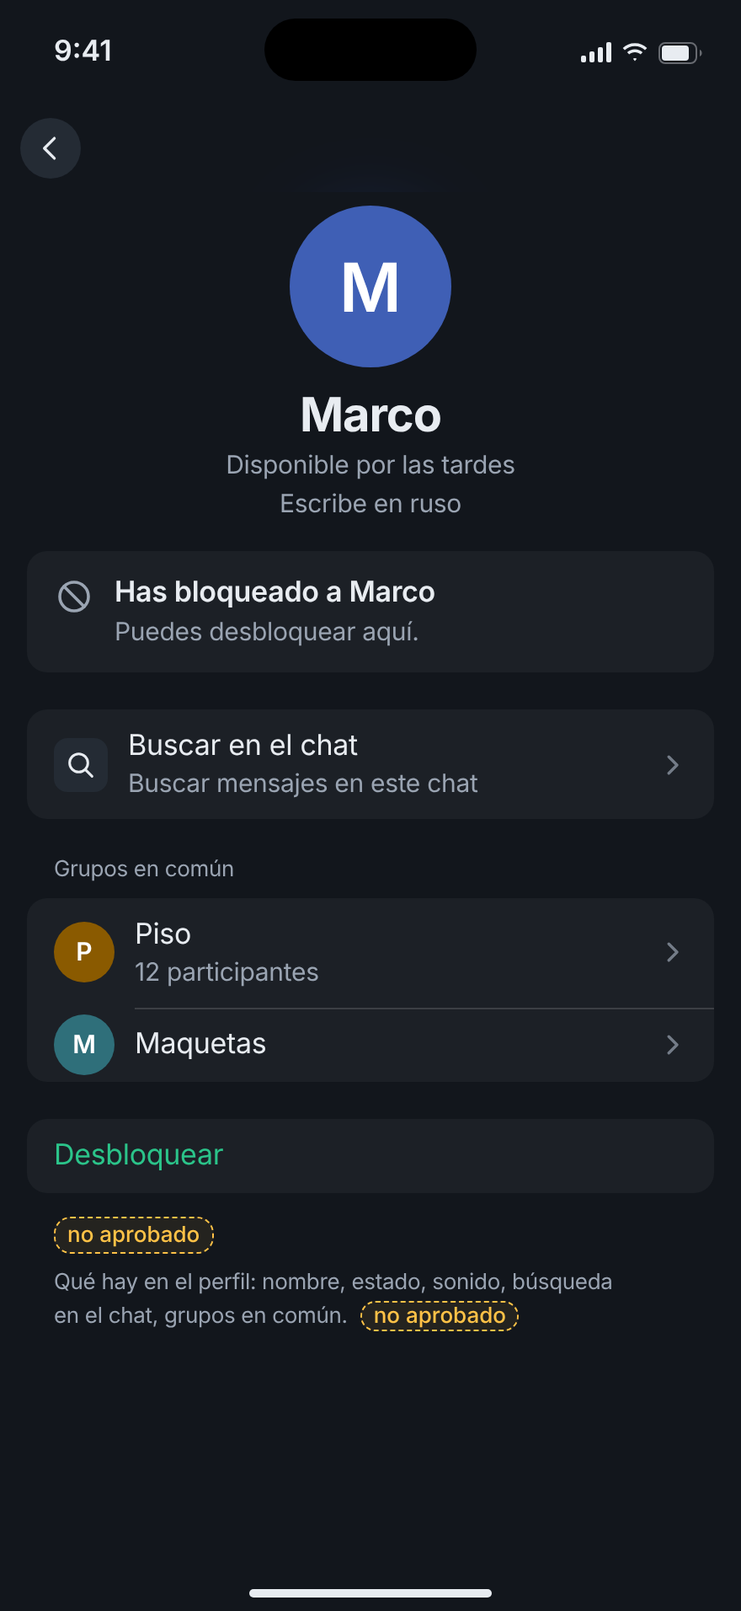
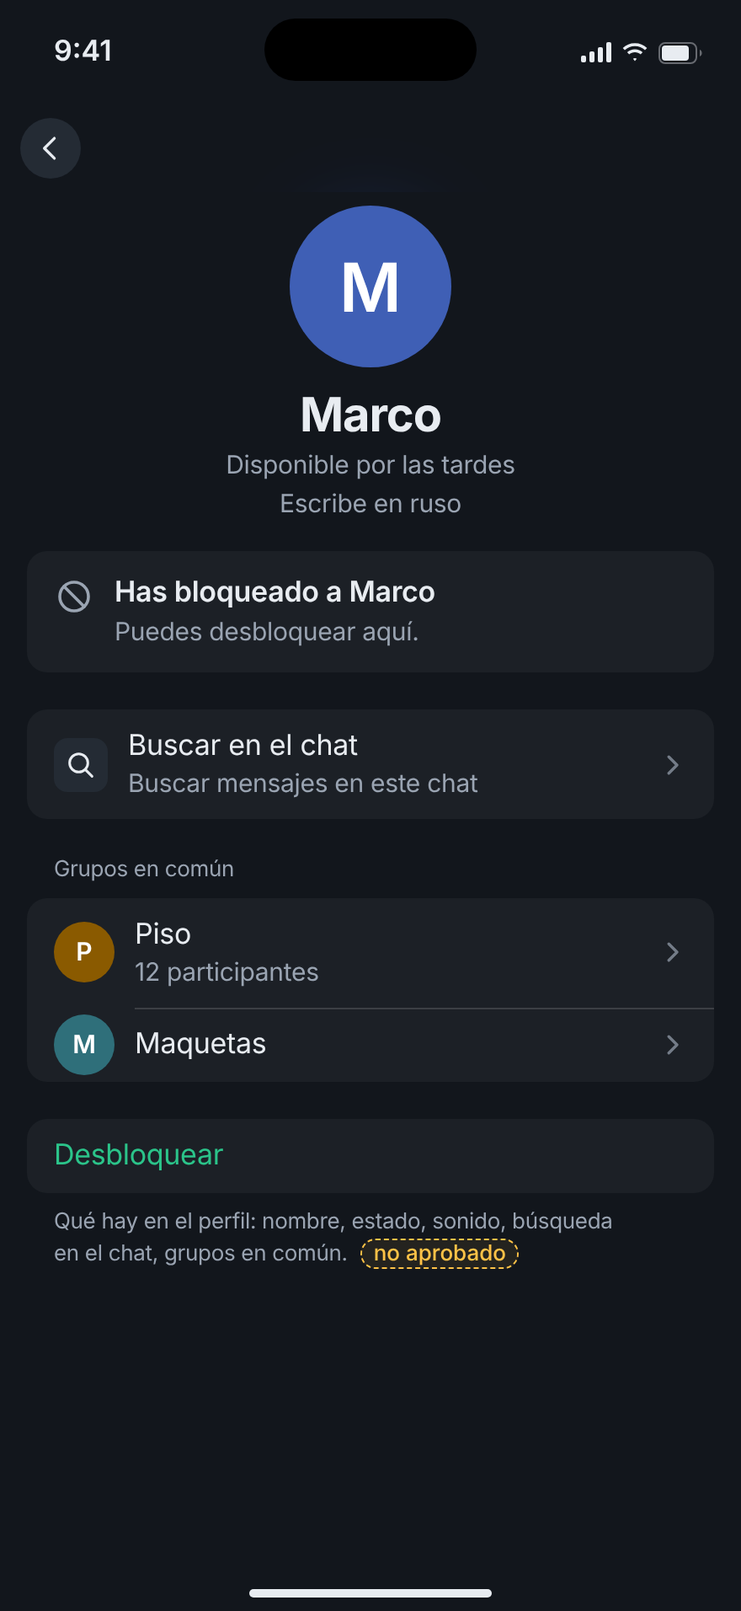
Контакты: сняты плашки с утверждённых №30, 33, 37, 39 (кнопка «Разблокировать», лист «Изменить контакт») (#94)
У лимита заметки (№35) и у №6, 9, 13 плашки остаются. tbd-texts.md: 65 мест (Мурат 44, юрист 21).

Claude-Session: https://claude.ai/code/session_01XzoWkW25V1nW2Qv4cEPq3n

Changed region(s): [[0.0614, 0.7406, 0.8284, 0.8332]]

diff --git a/redesign-ios/contacts-calls/contact-blocked.html b/redesign-ios/contacts-calls/contact-blocked.html
@@ -14,7 +14,7 @@ h.dataset.theme='dark';var l=q.get('l');h.lang=(l==='es'||l==='en')?l:'ru'})()</
 <div class="banner" role="status"><svg class="ic " viewBox="0 0 24 24" aria-hidden="true"><circle cx="12" cy="12" r="8.5"/><path d="M6 6l12 12"/></svg><div><h3>Контакт Marco заблокирован</h3><p>Снять блокировку можно здесь.</p></div></div>
 <ul class="ig"><li class="ir with-ic"><span class="ii"><svg class="ic " viewBox="0 0 24 24" aria-hidden="true"><circle cx="10.5" cy="10.5" r="6.5"/><path d="M20 20l-4.8-4.8"/></svg></span><div class="tx"><b>Поиск в чате</b><small>Искать сообщения в этом чате</small></div><svg class="ic chev" viewBox="0 0 24 24" aria-hidden="true"><path d="M9.5 5.5L16 12l-6.5 6.5"/></svg></li></ul><p class="igh">Общие группы</p><ul class="ig">
 <li class="ir with-av"><span class="ii av av36" style="background:var(--av-1)">К</span><div class="tx"><b>Квартира</b><small>12 участников</small></div><svg class="ic chev" viewBox="0 0 24 24" aria-hidden="true"><path d="M9.5 5.5L16 12l-6.5 6.5"/></svg></li>
-<li class="ir with-av"><span class="ii av av36" style="background:var(--av-5)">М</span><div class="tx"><b>Макеты</b></div><svg class="ic chev" viewBox="0 0 24 24" aria-hidden="true"><path d="M9.5 5.5L16 12l-6.5 6.5"/></svg></li></ul><ul class="ig"><li class="ir accent"><div class="tx"><b>Разблокировать</b></div></li></ul><p class="igf"><span class="tbd blk">не утверждено</span></p><p class="igf">Что есть в профиле: имя, статус, звук, поиск в чате, общие группы. <span class="tbd">не утверждено</span></p></div></div><header class="nav clear"><div class="bar"><span class="cbtn" aria-label="Назад"><svg class="ic " viewBox="0 0 24 24" aria-hidden="true"><path d="M14.5 5.5L8 12l6.5 6.5"/></svg></span><span></span></div></header>
+<li class="ir with-av"><span class="ii av av36" style="background:var(--av-5)">М</span><div class="tx"><b>Макеты</b></div><svg class="ic chev" viewBox="0 0 24 24" aria-hidden="true"><path d="M9.5 5.5L16 12l-6.5 6.5"/></svg></li></ul><ul class="ig"><li class="ir accent"><div class="tx"><b>Разблокировать</b></div></li></ul><p class="igf">Что есть в профиле: имя, статус, звук, поиск в чате, общие группы. <span class="tbd">не утверждено</span></p></div></div><header class="nav clear"><div class="bar"><span class="cbtn" aria-label="Назад"><svg class="ic " viewBox="0 0 24 24" aria-hidden="true"><path d="M14.5 5.5L8 12l6.5 6.5"/></svg></span><span></span></div></header>
 <i class="home-ind"></i></template>
 <template data-l="es" lang="es"><div class="sb"><span>9:41</span><i class="island"></i><span class="ri">
 <svg width="18" height="12" viewBox="0 0 18 12" fill="currentColor"><rect x="0" y="8" width="3" height="4" rx="1"/><rect x="5" y="5.5" width="3" height="6.5" rx="1"/><rect x="10" y="3" width="3" height="9" rx="1"/><rect x="15" y="0" width="3" height="12" rx="1"/></svg>
@@ -25,7 +25,7 @@ h.dataset.theme='dark';var l=q.get('l');h.lang=(l==='es'||l==='en')?l:'ru'})()</
 <div class="banner" role="status"><svg class="ic " viewBox="0 0 24 24" aria-hidden="true"><circle cx="12" cy="12" r="8.5"/><path d="M6 6l12 12"/></svg><div><h3>Has bloqueado a Marco</h3><p>Puedes desbloquear aquí.</p></div></div>
 <ul class="ig"><li class="ir with-ic"><span class="ii"><svg class="ic " viewBox="0 0 24 24" aria-hidden="true"><circle cx="10.5" cy="10.5" r="6.5"/><path d="M20 20l-4.8-4.8"/></svg></span><div class="tx"><b>Buscar en el chat</b><small>Buscar mensajes en este chat</small></div><svg class="ic chev" viewBox="0 0 24 24" aria-hidden="true"><path d="M9.5 5.5L16 12l-6.5 6.5"/></svg></li></ul><p class="igh">Grupos en común</p><ul class="ig">
 <li class="ir with-av"><span class="ii av av36" style="background:var(--av-1)">P</span><div class="tx"><b>Piso</b><small>12 participantes</small></div><svg class="ic chev" viewBox="0 0 24 24" aria-hidden="true"><path d="M9.5 5.5L16 12l-6.5 6.5"/></svg></li>
-<li class="ir with-av"><span class="ii av av36" style="background:var(--av-5)">M</span><div class="tx"><b>Maquetas</b></div><svg class="ic chev" viewBox="0 0 24 24" aria-hidden="true"><path d="M9.5 5.5L16 12l-6.5 6.5"/></svg></li></ul><ul class="ig"><li class="ir accent"><div class="tx"><b>Desbloquear</b></div></li></ul><p class="igf"><span class="tbd blk">no aprobado</span></p><p class="igf">Qué hay en el perfil: nombre, estado, sonido, búsqueda en el chat, grupos en común. <span class="tbd">no aprobado</span></p></div></div><header class="nav clear"><div class="bar"><span class="cbtn" aria-label="Atrás"><svg class="ic " viewBox="0 0 24 24" aria-hidden="true"><path d="M14.5 5.5L8 12l6.5 6.5"/></svg></span><span></span></div></header>
+<li class="ir with-av"><span class="ii av av36" style="background:var(--av-5)">M</span><div class="tx"><b>Maquetas</b></div><svg class="ic chev" viewBox="0 0 24 24" aria-hidden="true"><path d="M9.5 5.5L16 12l-6.5 6.5"/></svg></li></ul><ul class="ig"><li class="ir accent"><div class="tx"><b>Desbloquear</b></div></li></ul><p class="igf">Qué hay en el perfil: nombre, estado, sonido, búsqueda en el chat, grupos en común. <span class="tbd">no aprobado</span></p></div></div><header class="nav clear"><div class="bar"><span class="cbtn" aria-label="Atrás"><svg class="ic " viewBox="0 0 24 24" aria-hidden="true"><path d="M14.5 5.5L8 12l6.5 6.5"/></svg></span><span></span></div></header>
 <i class="home-ind"></i></template>
 <template data-l="en" lang="en"><div class="sb"><span>9:41</span><i class="island"></i><span class="ri">
 <svg width="18" height="12" viewBox="0 0 18 12" fill="currentColor"><rect x="0" y="8" width="3" height="4" rx="1"/><rect x="5" y="5.5" width="3" height="6.5" rx="1"/><rect x="10" y="3" width="3" height="9" rx="1"/><rect x="15" y="0" width="3" height="12" rx="1"/></svg>
@@ -36,7 +36,7 @@ h.dataset.theme='dark';var l=q.get('l');h.lang=(l==='es'||l==='en')?l:'ru'})()</
 <div class="banner" role="status"><svg class="ic " viewBox="0 0 24 24" aria-hidden="true"><circle cx="12" cy="12" r="8.5"/><path d="M6 6l12 12"/></svg><div><h3>Marco is blocked</h3><p>You can unblock here.</p></div></div>
 <ul class="ig"><li class="ir with-ic"><span class="ii"><svg class="ic " viewBox="0 0 24 24" aria-hidden="true"><circle cx="10.5" cy="10.5" r="6.5"/><path d="M20 20l-4.8-4.8"/></svg></span><div class="tx"><b>Search in chat</b><small>Find messages in this chat</small></div><svg class="ic chev" viewBox="0 0 24 24" aria-hidden="true"><path d="M9.5 5.5L16 12l-6.5 6.5"/></svg></li></ul><p class="igh">Groups in common</p><ul class="ig">
 <li class="ir with-av"><span class="ii av av36" style="background:var(--av-1)">F</span><div class="tx"><b>Flat</b><small>12 members</small></div><svg class="ic chev" viewBox="0 0 24 24" aria-hidden="true"><path d="M9.5 5.5L16 12l-6.5 6.5"/></svg></li>
-<li class="ir with-av"><span class="ii av av36" style="background:var(--av-5)">M</span><div class="tx"><b>Mockups</b></div><svg class="ic chev" viewBox="0 0 24 24" aria-hidden="true"><path d="M9.5 5.5L16 12l-6.5 6.5"/></svg></li></ul><ul class="ig"><li class="ir accent"><div class="tx"><b>Unblock</b></div></li></ul><p class="igf"><span class="tbd blk">not approved</span></p><p class="igf">What the profile has: name, status, sound, search in chat, shared groups. <span class="tbd">not approved</span></p></div></div><header class="nav clear"><div class="bar"><span class="cbtn" aria-label="Back"><svg class="ic " viewBox="0 0 24 24" aria-hidden="true"><path d="M14.5 5.5L8 12l6.5 6.5"/></svg></span><span></span></div></header>
+<li class="ir with-av"><span class="ii av av36" style="background:var(--av-5)">M</span><div class="tx"><b>Mockups</b></div><svg class="ic chev" viewBox="0 0 24 24" aria-hidden="true"><path d="M9.5 5.5L16 12l-6.5 6.5"/></svg></li></ul><ul class="ig"><li class="ir accent"><div class="tx"><b>Unblock</b></div></li></ul><p class="igf">What the profile has: name, status, sound, search in chat, shared groups. <span class="tbd">not approved</span></p></div></div><header class="nav clear"><div class="bar"><span class="cbtn" aria-label="Back"><svg class="ic " viewBox="0 0 24 24" aria-hidden="true"><path d="M14.5 5.5L8 12l6.5 6.5"/></svg></span><span></span></div></header>
 <i class="home-ind"></i></template>
 <script>// WordFit (как wordfit.js в корне репозитория): на AX5 слово, которое не влезает в строку, не рвётся —
 // сначала раскладка (в CSS: строки во всю ширину, значок над текстом), а если и так не влезло — кегль блока

diff --git a/redesign-ios/contacts-calls/contact-edit-filled.html b/redesign-ios/contacts-calls/contact-edit-filled.html
@@ -24,7 +24,7 @@ h.dataset.theme='dark';var l=q.get('l');h.lang=(l==='es'||l==='en')?l:'ru'})()</
 <ul class="ig"><li class="ir accent"><div class="tx"><b>Сбросить к имени из профиля</b></div></li></ul>
 <p class="igh">Заметка</p><ul class="ig"><li class="ir"><div class="notefield focus" style="display:flex;flex-direction:column;justify-content:flex-end"><div>Познакомились на языковом обмене в библиотеке на Майор. Созваниваемся по вторникам и четвергам в 19:00: полчаса говорим по‑испански, полчаса по‑русски. Просит исправлять ошибки сразу, а не в конце разговора. Любит футбол, горы и старое кино, не любит голосовые длиннее минуты. В марте планирует поездку в Москву — посоветовать музеи и где недорого поесть. Вернуть книгу «Сто лет одиночества». День рождения — 14 мая. Любимый кофе — кортадо, без сахара. Отвечать лучше вечером.<i class="caret"></i></div></div></li></ul>
 <div class="nfoot"><span>Собеседник её не видит</span><span class="cnt">476 / 500</span></div>
-<p class="small"><span class="tbd blk">формулировка: не утверждено</span></p></div></div>
+</div></div>
 <i class="home-ind"></i></template>
 <template data-l="es" lang="es"><div class="sb"><span>9:41</span><i class="island"></i><span class="ri">
 <svg width="18" height="12" viewBox="0 0 18 12" fill="currentColor"><rect x="0" y="8" width="3" height="4" rx="1"/><rect x="5" y="5.5" width="3" height="6.5" rx="1"/><rect x="10" y="3" width="3" height="9" rx="1"/><rect x="15" y="0" width="3" height="12" rx="1"/></svg>
@@ -45,7 +45,7 @@ h.dataset.theme='dark';var l=q.get('l');h.lang=(l==='es'||l==='en')?l:'ru'})()</
 <ul class="ig"><li class="ir accent"><div class="tx"><b>Restablecer el nombre del perfil</b></div></li></ul>
 <p class="igh">Nota</p><ul class="ig"><li class="ir"><div class="notefield focus" style="display:flex;flex-direction:column;justify-content:flex-end"><div>Nos conocimos en un intercambio de idiomas en la biblioteca de la calle Mayor. Hablamos los martes y jueves a las 19:00: media hora en ruso y media en español. Prefiere que le corrija los errores en el momento, no al final. Le gustan el fútbol, la montaña y el cine antiguo; no le gustan los audios de más de un minuto. En marzo viene a Madrid: recomendarle museos y sitios baratos para comer. Devolverle «Cien años de soledad». Cumpleaños: 14 de mayo. Café favorito: cortado, sin azúcar.<i class="caret"></i></div></div></li></ul>
 <div class="nfoot"><span>La otra persona no la ve</span><span class="cnt">488 / 500</span></div>
-<p class="small"><span class="tbd blk">redacción: no aprobada</span></p></div></div>
+</div></div>
 <i class="home-ind"></i></template>
 <template data-l="en" lang="en"><div class="sb"><span>9:41</span><i class="island"></i><span class="ri">
 <svg width="18" height="12" viewBox="0 0 18 12" fill="currentColor"><rect x="0" y="8" width="3" height="4" rx="1"/><rect x="5" y="5.5" width="3" height="6.5" rx="1"/><rect x="10" y="3" width="3" height="9" rx="1"/><rect x="15" y="0" width="3" height="12" rx="1"/></svg>
@@ -66,7 +66,7 @@ h.dataset.theme='dark';var l=q.get('l');h.lang=(l==='es'||l==='en')?l:'ru'})()</
 <ul class="ig"><li class="ir accent"><div class="tx"><b>Reset to profile name</b></div></li></ul>
 <p class="igh">Note</p><ul class="ig"><li class="ir"><div class="notefield focus" style="display:flex;flex-direction:column;justify-content:flex-end"><div>We met at a language exchange at the library on Mayor Street. We talk on Tuesdays and Thursdays at 19:00: half an hour in Spanish, half an hour in English. Prefers mistakes corrected right away, not at the end of the call. Into football, mountains and old films; not a fan of voice messages longer than a minute. Coming to London in March: suggest museums and cheap places to eat. Return “One Hundred Years of Solitude”. Birthday: 14 May. Favourite coffee: cortado, no sugar.<i class="caret"></i></div></div></li></ul>
 <div class="nfoot"><span>The other person can’t see it</span><span class="cnt">475 / 500</span></div>
-<p class="small"><span class="tbd blk">wording: not approved</span></p></div></div>
+</div></div>
 <i class="home-ind"></i></template>
 <script>// WordFit (как wordfit.js в корне репозитория): на AX5 слово, которое не влезает в строку, не рвётся —
 // сначала раскладка (в CSS: строки во всю ширину, значок над текстом), а если и так не влезло — кегль блока

diff --git a/redesign-ios/contacts-calls/contact-edit.html b/redesign-ios/contacts-calls/contact-edit.html
@@ -24,7 +24,7 @@ h.dataset.theme='dark';var l=q.get('l');h.lang=(l==='es'||l==='en')?l:'ru'})()</
 <ul class="ig"><li class="ir accent"><div class="tx"><b>Сбросить к имени из профиля</b></div></li></ul>
 <p class="igh">Заметка</p><ul class="ig"><li class="ir"><div class="notefield"><span class="ph">Например, где вы познакомились</span></div></li></ul>
 <div class="nfoot"><span>Собеседник её не видит</span></div>
-<p class="small"><span class="tbd blk">формулировка: не утверждено</span></p></div></div>
+</div></div>
 <i class="home-ind"></i></template>
 <template data-l="es" lang="es"><div class="sb"><span>9:41</span><i class="island"></i><span class="ri">
 <svg width="18" height="12" viewBox="0 0 18 12" fill="currentColor"><rect x="0" y="8" width="3" height="4" rx="1"/><rect x="5" y="5.5" width="3" height="6.5" rx="1"/><rect x="10" y="3" width="3" height="9" rx="1"/><rect x="15" y="0" width="3" height="12" rx="1"/></svg>
@@ -45,7 +45,7 @@ h.dataset.theme='dark';var l=q.get('l');h.lang=(l==='es'||l==='en')?l:'ru'})()</
 <ul class="ig"><li class="ir accent"><div class="tx"><b>Restablecer el nombre del perfil</b></div></li></ul>
 <p class="igh">Nota</p><ul class="ig"><li class="ir"><div class="notefield"><span class="ph">Por ejemplo, dónde os conocisteis</span></div></li></ul>
 <div class="nfoot"><span>La otra persona no la ve</span></div>
-<p class="small"><span class="tbd blk">redacción: no aprobada</span></p></div></div>
+</div></div>
 <i class="home-ind"></i></template>
 <template data-l="en" lang="en"><div class="sb"><span>9:41</span><i class="island"></i><span class="ri">
 <svg width="18" height="12" viewBox="0 0 18 12" fill="currentColor"><rect x="0" y="8" width="3" height="4" rx="1"/><rect x="5" y="5.5" width="3" height="6.5" rx="1"/><rect x="10" y="3" width="3" height="9" rx="1"/><rect x="15" y="0" width="3" height="12" rx="1"/></svg>
@@ -66,7 +66,7 @@ h.dataset.theme='dark';var l=q.get('l');h.lang=(l==='es'||l==='en')?l:'ru'})()</
 <ul class="ig"><li class="ir accent"><div class="tx"><b>Reset to profile name</b></div></li></ul>
 <p class="igh">Note</p><ul class="ig"><li class="ir"><div class="notefield"><span class="ph">For example, where you met</span></div></li></ul>
 <div class="nfoot"><span>The other person can’t see it</span></div>
-<p class="small"><span class="tbd blk">wording: not approved</span></p></div></div>
+</div></div>
 <i class="home-ind"></i></template>
 <script>// WordFit (как wordfit.js в корне репозитория): на AX5 слово, которое не влезает в строку, не рвётся —
 // сначала раскладка (в CSS: строки во всю ширину, значок над текстом), а если и так не влезло — кегль блока

diff --git a/redesign-ios/contacts-calls/contact-edit-reset.html b/redesign-ios/contacts-calls/contact-edit-reset.html
@@ -24,7 +24,7 @@ h.dataset.theme='dark';var l=q.get('l');h.lang=(l==='es'||l==='en')?l:'ru'})()</
 
 <p class="igh">Заметка</p><ul class="ig"><li class="ir"><div class="notefield"><span class="ph">Например, где вы познакомились</span></div></li></ul>
 <div class="nfoot"><span>Собеседник её не видит</span></div>
-<p class="small"><span class="tbd blk">формулировка: не утверждено</span></p></div></div>
+</div></div>
 <i class="home-ind"></i></template>
 <template data-l="es" lang="es"><div class="sb"><span>9:41</span><i class="island"></i><span class="ri">
 <svg width="18" height="12" viewBox="0 0 18 12" fill="currentColor"><rect x="0" y="8" width="3" height="4" rx="1"/><rect x="5" y="5.5" width="3" height="6.5" rx="1"/><rect x="10" y="3" width="3" height="9" rx="1"/><rect x="15" y="0" width="3" height="12" rx="1"/></svg>
@@ -45,7 +45,7 @@ h.dataset.theme='dark';var l=q.get('l');h.lang=(l==='es'||l==='en')?l:'ru'})()</
 
 <p class="igh">Nota</p><ul class="ig"><li class="ir"><div class="notefield"><span class="ph">Por ejemplo, dónde os conocisteis</span></div></li></ul>
 <div class="nfoot"><span>La otra persona no la ve</span></div>
-<p class="small"><span class="tbd blk">redacción: no aprobada</span></p></div></div>
+</div></div>
 <i class="home-ind"></i></template>
 <template data-l="en" lang="en"><div class="sb"><span>9:41</span><i class="island"></i><span class="ri">
 <svg width="18" height="12" viewBox="0 0 18 12" fill="currentColor"><rect x="0" y="8" width="3" height="4" rx="1"/><rect x="5" y="5.5" width="3" height="6.5" rx="1"/><rect x="10" y="3" width="3" height="9" rx="1"/><rect x="15" y="0" width="3" height="12" rx="1"/></svg>
@@ -66,7 +66,7 @@ h.dataset.theme='dark';var l=q.get('l');h.lang=(l==='es'||l==='en')?l:'ru'})()</
 
 <p class="igh">Note</p><ul class="ig"><li class="ir"><div class="notefield"><span class="ph">For example, where you met</span></div></li></ul>
 <div class="nfoot"><span>The other person can’t see it</span></div>
-<p class="small"><span class="tbd blk">wording: not approved</span></p></div></div>
+</div></div>
 <i class="home-ind"></i></template>
 <script>// WordFit (как wordfit.js в корне репозитория): на AX5 слово, которое не влезает в строку, не рвётся —
 // сначала раскладка (в CSS: строки во всю ширину, значок над текстом), а если и так не влезло — кегль блока

diff --git a/redesign-ios/contacts-calls/tools/build.js b/redesign-ios/contacts-calls/tools/build.js
@@ -137,7 +137,7 @@ ${igf(hint)}
 ${reset ? `<ul class="ig"><li class="ir accent"><div class="tx"><b>${t('Сбросить к имени из профиля')}</b></div></li></ul>` : ''}
 ${igh('Заметка')}<ul class="ig"><li class="ir">${note}</li></ul>
 <div class="nfoot"><span>${t('Собеседник её не видит')}</span>${cnt ? `<span class="cnt${max ? ' max' : ''}">${cnt}</span>` : ''}${max ? `<span class="lim" role="status">${t('Больше 500 символов не поместится')}</span>` : ''}</div>
-<p class="small">${tbd('формулировка: не утверждено', 'blk')}</p></div></div>`;
+${max ? `<p class="small">${tbd('формулировка: не утверждено', 'blk')}</p>` : ''}</div></div>`; // №33/37/39 утверждены 22.11 (оркестратор); у лимита (№35) плашка остаётся
 const notePh = () => `<div class="notefield"><span class="ph">${t('Например, где вы познакомились')}</span></div>`;
 const noteLong = (txt) => `<div class="notefield focus" style="display:flex;flex-direction:column;justify-content:flex-end"><div>${txt}<i class="caret"></i></div></div>`;
 
@@ -185,7 +185,7 @@ S['contact-block'] = () => `${marcoProfile()}<div class="scrim dark"></div>
 <span class="bt danger">${t('Заблокировать')}</span><span class="bt">${t('Отмена')}</span></div>`;
 S['contact-blocked'] = () => `<div class="page pushed"><div class="scroll">${prof(MARCO)}
 <div class="banner" role="status">${ic('block')}<div><h3>${t('Контакт Marco заблокирован')}</h3><p>${t('Снять блокировку можно здесь.')}</p></div></div>
-${searchOnly()}${groups()}${blockRow('Разблокировать', 'accent')}${igf(tbd('не утверждено', 'blk'))}${profNote()}</div></div>${nav()}`;
+${searchOnly()}${groups()}${blockRow('Разблокировать', 'accent')}${profNote()}</div></div>${nav()}`;
 S['contact-error'] = () => `<div class="page pushed"><div class="scroll">${prof({ g: 'g2', l: 'M', name: 'Marco' })}
 <div class="banner err" role="alert">${ic('alert')}<div><h3>${t('Не получилось загрузить профиль')}</h3><p>${t('Проверь сеть и попробуй ещё раз.')}</p></div></div>
 <div style="padding:0 16px">${cta('Повторить', 'primary')}</div></div></div>${nav()}`;

diff --git a/docs/tbd-texts.md b/docs/tbd-texts.md
@@ -2,7 +2,7 @@
 
 Собрано 22.11.2026 из отрисованных страниц `redesign-ios/{onboarding,settings,contacts-calls,groups,sheets}`, в ru, es и en, после вычитки Переводчика (`docs/tbd-texts-review.md`). Утверждённые по вычитке тексты применены, их плашки сняты; ниже — то, что осталось.
 
-**Итого: 73 места.** Решает Мурат — 48, юрист — 22, Translate (en) — 3.
+**Итого: 69 мест.** Решает Мурат — 44, юрист — 22, Translate (en) — 3.
 
 - **Решает Мурат** — плашки «не утверждено», «формулировка: не утверждено», «запасной вариант», «кнопка жалобы: формулировка не утверждена». Сюда входят служебные пометки для дизайна («не UI» в вычитке), блокер с ценой подписки (`plans`, цена — `{price}` из StoreKit) и исправленные черновики вычитки.
 - **Решает Translate** — черновики en на экранах `ob-address` и `ob-mic` (ru/es там уже утверждены).
@@ -40,7 +40,7 @@
 | 7 | `settings-notifications-blocked` | Мурат | формулировка: не утверждено | (блок над плашкой) 1. Настройки iPhone2. Parrlo3. Уведомления | (блок над плашкой) 1. Ajustes2. Parrlo3. Notificaciones | (блок над плашкой) 1. Settings2. Parrlo3. Notifications |
 
 
-## Контакты, звонки, профиль (`redesign-ios/contacts-calls/`) — 20
+## Контакты, звонки, профиль (`redesign-ios/contacts-calls/`) — 16
 
 | № | Экран | Решает | Пометка | ru | es | en |
 |---|---|---|---|---|---|---|
@@ -56,14 +56,10 @@
 | 10 | `calls-missed` | Мурат | не утверждено | Где открывается список звонков (вкладка или «Позвонить» в быстрых действиях): | Dónde se abre la lista de llamadas (una pestaña o «Llamar» en acciones rápidas): | Where the call list opens (a tab or “Call” in quick actions): |
 | 11 | `calls-missed` | юрист | юрист проверит | Срок хранения истории звонков и копии протокола на сервере: [уточнить]. | Plazo de conservación del historial de llamadas y de la copia de la transcripción en el servidor: [por confirmar]. | How long call history and the server copy of the transcript are kept: [to be confirmed]. |
 | 12 | `contact-block` | Мурат | не утверждено | Что есть в профиле: имя, статус, звук, поиск в чате, общие группы. | Qué hay en el perfil: nombre, estado, sonido, búsqueda en el chat, grupos en común. | What the profile has: name, status, sound, search in chat, shared groups. |
-| 13 | `contact-blocked` | Мурат | не утверждено | (блок над плашкой) Разблокировать | (блок над плашкой) Desbloquear | (блок над плашкой) Unblock |
-| 14 | `contact-blocked` | Мурат | не утверждено | Что есть в профиле: имя, статус, звук, поиск в чате, общие группы. | Qué hay en el perfil: nombre, estado, sonido, búsqueda en el chat, grupos en común. | What the profile has: name, status, sound, search in chat, shared groups. |
-| 15 | `contact-edit` | Мурат | формулировка: не утверждено | (блок над плашкой) Собеседник её не видит | (блок над плашкой) La otra persona no la ve | (блок над плашкой) The other person can’t see it |
-| 16 | `contact-edit-filled` | Мурат | формулировка: не утверждено | (блок над плашкой) Собеседник её не видит476 / 500 | (блок над плашкой) La otra persona no la ve488 / 500 | (блок над плашкой) The other person can’t see it475 / 500 |
-| 17 | `contact-edit-limit` | Мурат | формулировка: не утверждено | (блок над плашкой) Собеседник её не видит500 / 500Больше 500 символов не поместится | (блок над плашкой) La otra persona no la ve500 / 500No caben más de 500 caracteres | (блок над плашкой) The other person can’t see it500 / 500Notes can’t be longer than 500 characters |
-| 18 | `contact-edit-reset` | Мурат | формулировка: не утверждено | (блок над плашкой) Собеседник её не видит | (блок над плашкой) La otra persona no la ve | (блок над плашкой) The other person can’t see it |
-| 19 | `contact-nogroups` | Мурат | не утверждено | Что есть в профиле: имя, статус, звук, поиск в чате, общие группы. | Qué hay en el perfil: nombre, estado, sonido, búsqueda en el chat, grupos en común. | What the profile has: name, status, sound, search in chat, shared groups. |
-| 20 | `contact-profile` | Мурат | не утверждено | Что есть в профиле: имя, статус, звук, поиск в чате, общие группы. | Qué hay en el perfil: nombre, estado, sonido, búsqueda en el chat, grupos en común. | What the profile has: name, status, sound, search in chat, shared groups. |
+| 13 | `contact-blocked` | Мурат | не утверждено | Что есть в профиле: имя, статус, звук, поиск в чате, общие группы. | Qué hay en el perfil: nombre, estado, sonido, búsqueda en el chat, grupos en común. | What the profile has: name, status, sound, search in chat, shared groups. |
+| 14 | `contact-edit-limit` | Мурат | формулировка: не утверждено | (блок над плашкой) Собеседник её не видит500 / 500Больше 500 символов не поместится | (блок над плашкой) La otra persona no la ve500 / 500No caben más de 500 caracteres | (блок над плашкой) The other person can’t see it500 / 500Notes can’t be longer than 500 characters |
+| 15 | `contact-nogroups` | Мурат | не утверждено | Что есть в профиле: имя, статус, звук, поиск в чате, общие группы. | Qué hay en el perfil: nombre, estado, sonido, búsqueda en el chat, grupos en común. | What the profile has: name, status, sound, search in chat, shared groups. |
+| 16 | `contact-profile` | Мурат | не утверждено | Что есть в профиле: имя, статус, звук, поиск в чате, общие группы. | Qué hay en el perfil: nombre, estado, sonido, búsqueda en el chat, grupos en común. | What the profile has: name, status, sound, search in chat, shared groups. |
 
 
 ## Группы (`redesign-ios/groups/`) — 18
